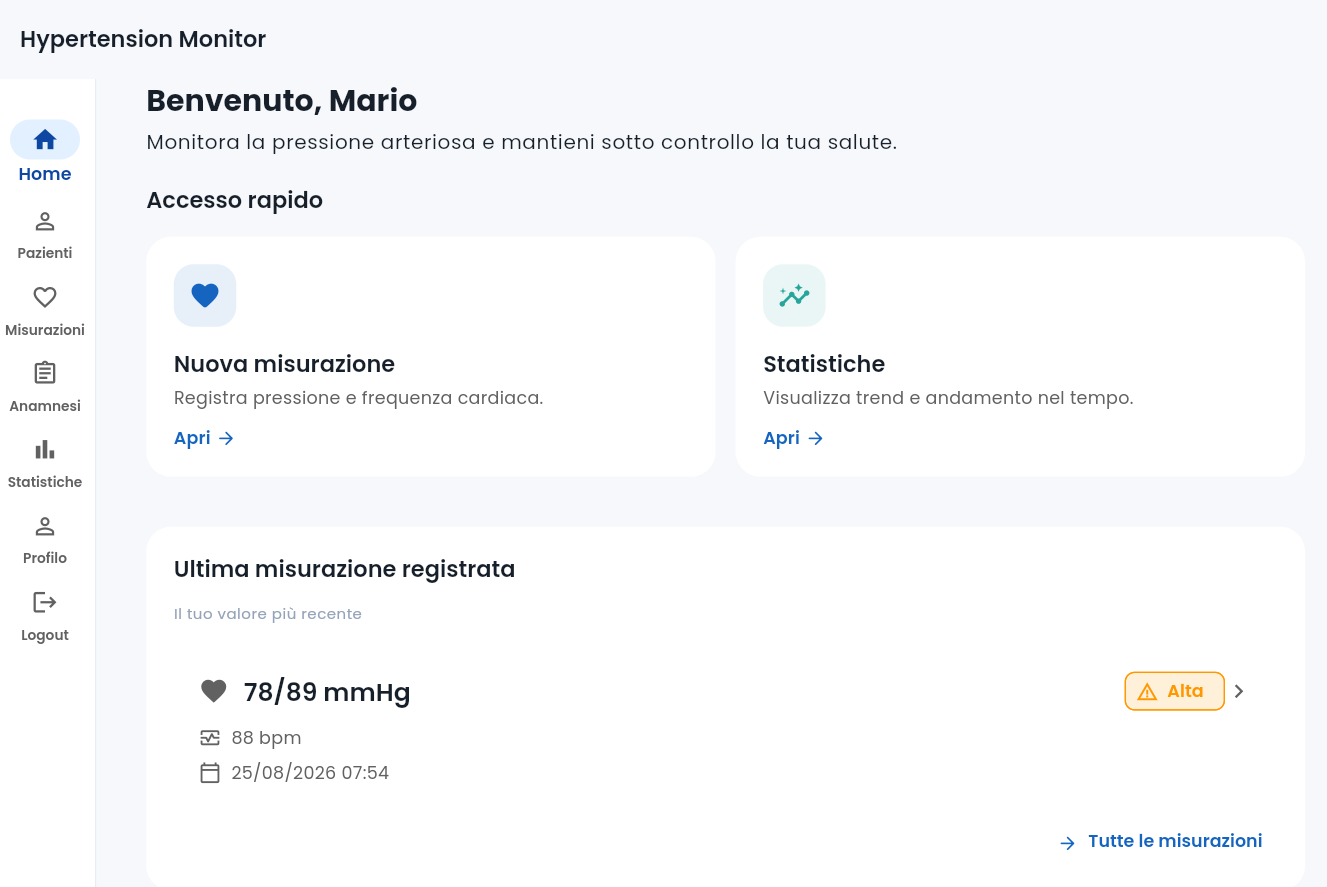
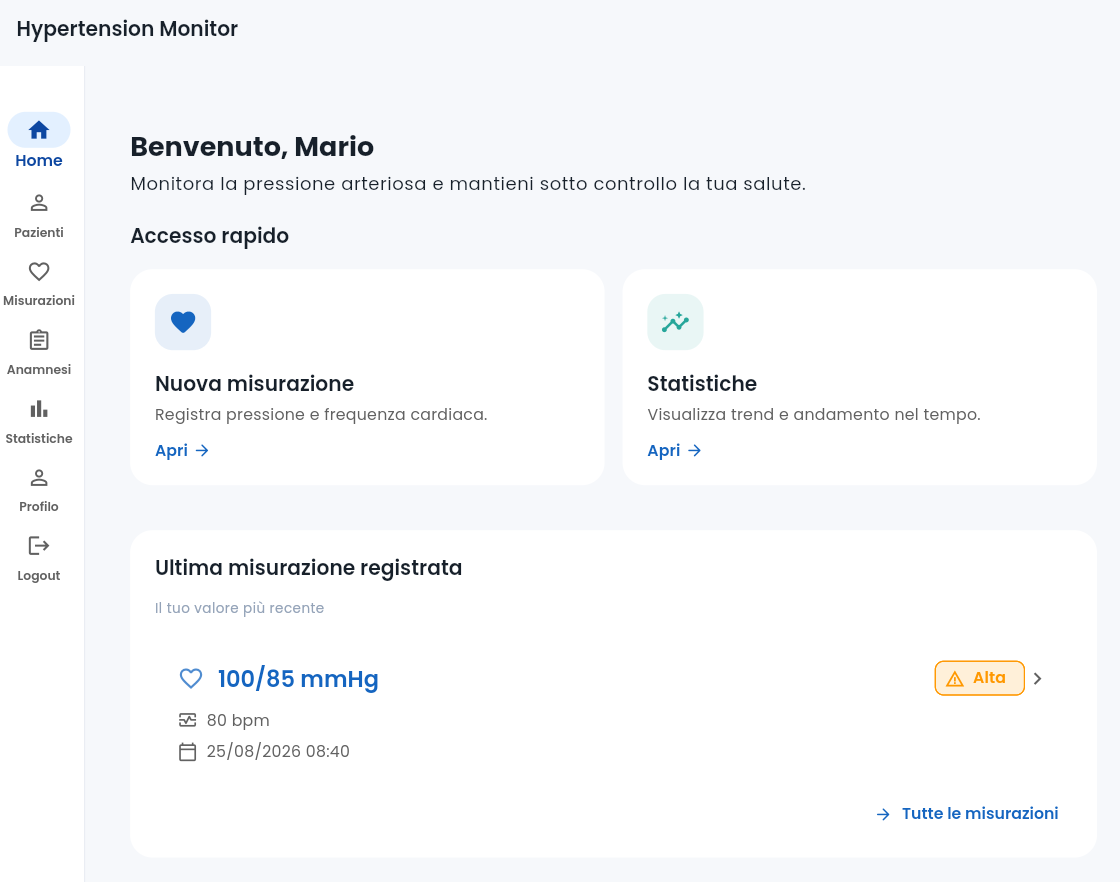
Update

diff --git a/lib/shared/widgets/blood_pressure_card.dart b/lib/shared/widgets/blood_pressure_card.dart
@@ -78,10 +78,10 @@ class BloodPressureCard extends StatelessWidget {
                     children: [
 
                         Icon(
-                            Icons.favorite, 
-                            size: compact ? 18: 24, 
-                        ), 
-
+                        Icons.favorite_border,
+                        size: compact ? 18 : 24,
+                        color: Theme.of(context).colorScheme.primary.withValues(alpha: 0.75),
+                        ),
                         const SizedBox(width: 12), 
 
                         Expanded(
@@ -89,10 +89,12 @@ class BloodPressureCard extends StatelessWidget {
                             child: Text(
 
                                 '${measurement.systolicPressure}/${measurement.diastolicPressure} mmHg', 
-                                
-                                style: compact
-                                    ? Theme.of(context).textTheme.titleLarge
-                                    : Theme.of(context).textTheme.headlineMedium,  
+                                style: (compact
+                                        ? Theme.of(context).textTheme.titleLarge
+                                        : Theme.of(context).textTheme.headlineMedium)
+                                    ?.copyWith(
+                                    color: Theme.of(context).colorScheme.primary,
+                                    ), 
                             ), 
                         ), 
 

diff --git a/lib/features/home/home_page.dart b/lib/features/home/home_page.dart
@@ -543,7 +543,7 @@ class _HomePageState extends ConsumerState<HomePage> {
                                     value:
                                         measurementCount.toString(),
                                     label: 'Misurazioni',
-                                    color: AppColors.heartRate,
+                                    color: AppColors.primary,
                                     onTap: () {
 
                                         setState(() {
@@ -577,7 +577,7 @@ class _HomePageState extends ConsumerState<HomePage> {
                                 value:
                                     measurementCount.toString(),
                                 label: 'Misurazioni',
-                                color: AppColors.heartRate,
+                                color: AppColors.primary,
                                 onTap: () {
 
                                     setState(() {
@@ -682,7 +682,7 @@ class _HomePageState extends ConsumerState<HomePage> {
                                 decoration: BoxDecoration(
 
                                     color: color.withValues(
-                                        alpha: 0.10,
+                                        alpha: 0.08,
                                     ),
 
                                     borderRadius:

diff --git a/lib/features/patients/patient_page.dart b/lib/features/patients/patient_page.dart
@@ -197,7 +197,10 @@ class PatientPage extends ConsumerWidget {
 
             child: ListTile(
 
-              leading: const Icon(Icons.person), 
+              leading: Icon(
+                Icons.person,
+                color: Theme.of(context).colorScheme.primary.withValues(alpha: 0.75),
+              ),
 
               title: Text(
                 '${patient.firstName} ${patient.lastName}',

diff --git a/lib/features/medical_history/medical_history_page.dart b/lib/features/medical_history/medical_history_page.dart
@@ -200,9 +200,7 @@ class MedicalHistoryPage extends ConsumerWidget {
               : 'Anamnesi ancora da compilare',
             
             style: Theme.of(context).textTheme.bodyMedium?.copyWith(
-              color: hasHistory
-                ? colors.primary 
-                : colors.outline, 
+              color: colors.primary, 
             ),
           ),
         ),
